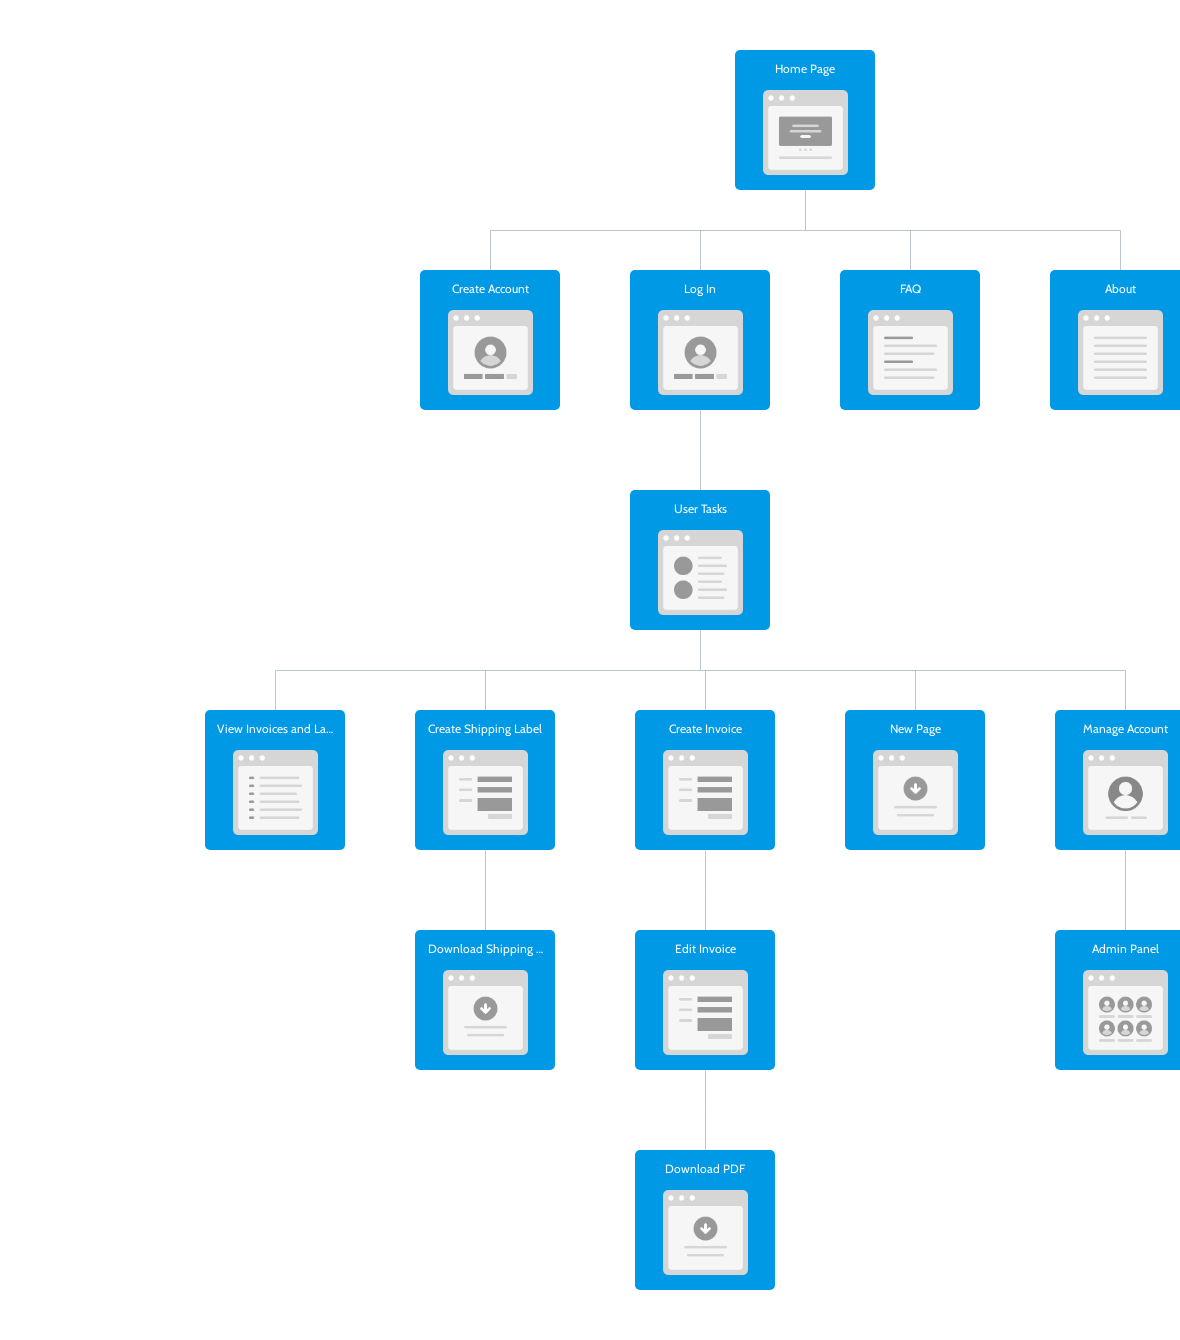
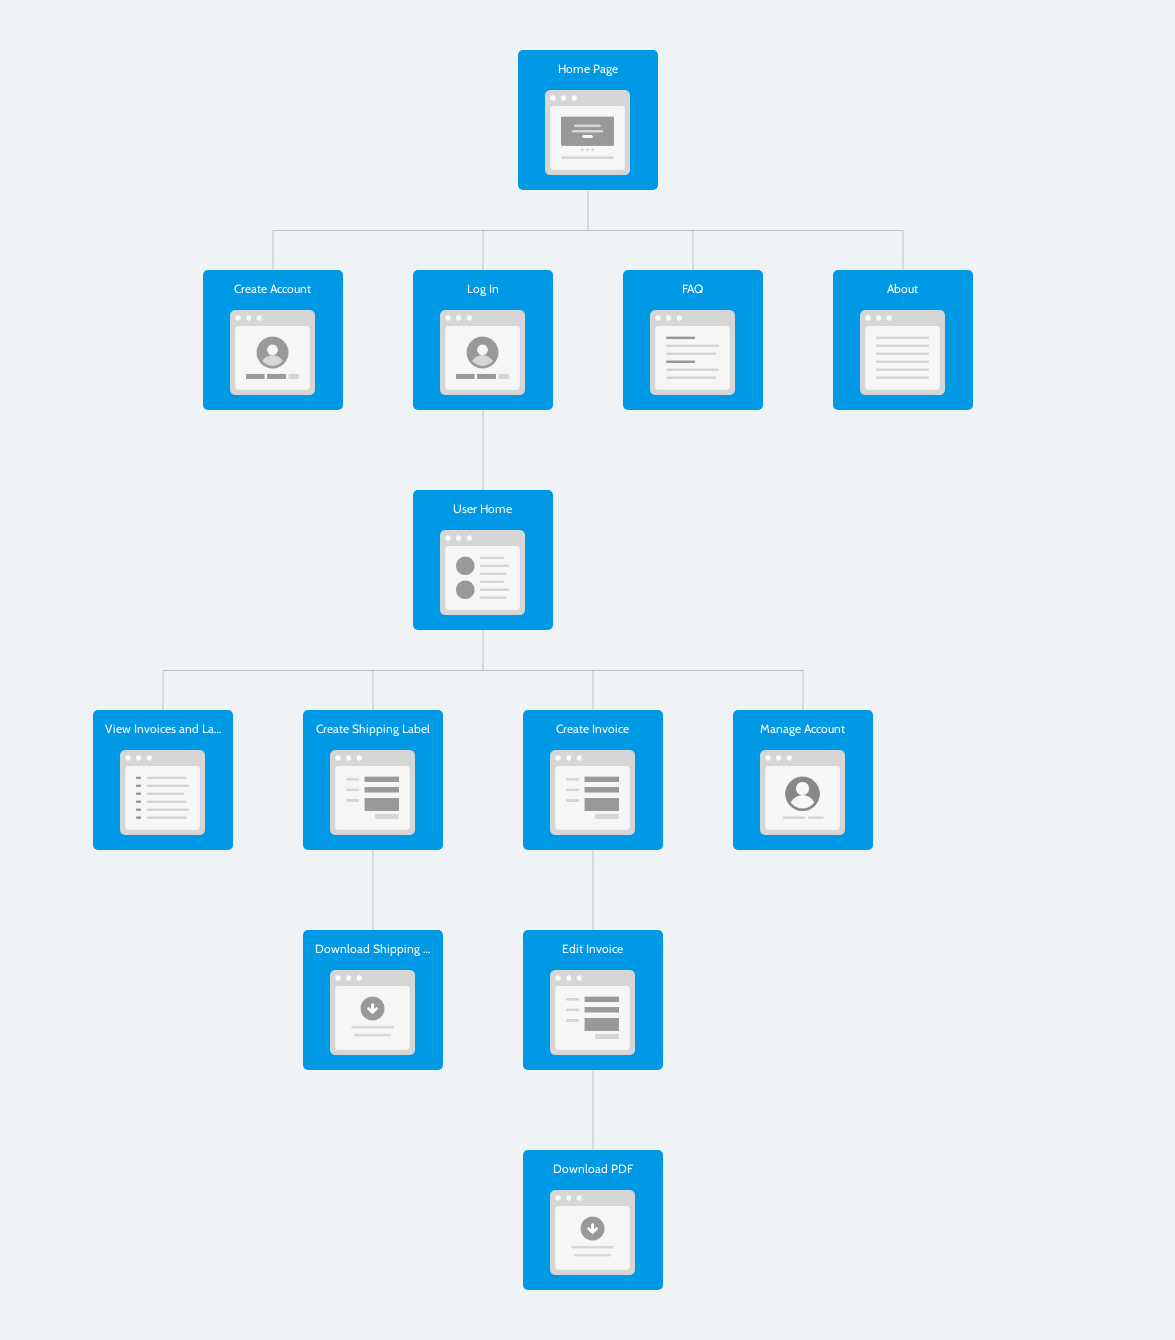
Added more wireframes

diff --git a/DesignDocuments/Screens.md b/DesignDocuments/Screens.md
@@ -3,33 +3,31 @@
 ![Home Page](wireframes/homePage.png)
 
 ### Create Account
-![Create Account](wireframes/)
+![Create Account](wireframes/createAccount.png)
 
 ### Log In
 ![Log In](wireframes/login.png)
 
 ### FAQ
-![FAQ](wireframes/)
+![FAQ](wireframes/faq.png)
 
 ### About
 ![About](wireframes/About.png)
 
 ### User Tasks
-![User Tasks](wireframes/)
+![User Tasks](wireframes/userHome.png)
 
 ### View Invoices
-![View Invoices](wireframes/)
+![View Invoices](wireframes/viewInvoices.png)
 
 ### Create Shipping Label
-![Create Shipping Label](wireframes/)
+![Create Shipping Label](wireframes/createShippingLabel.png)
 
 ### Create/Edit Invoice
 ![Create Invoice](wireframes/)
 
 ### Manage Account
-![Manage Account](wireframes/)
+![Manage Account](wireframes/manageAccount.png)
 
-### Admin Panel
-![Admin Panel](wireframes/)
 
 
